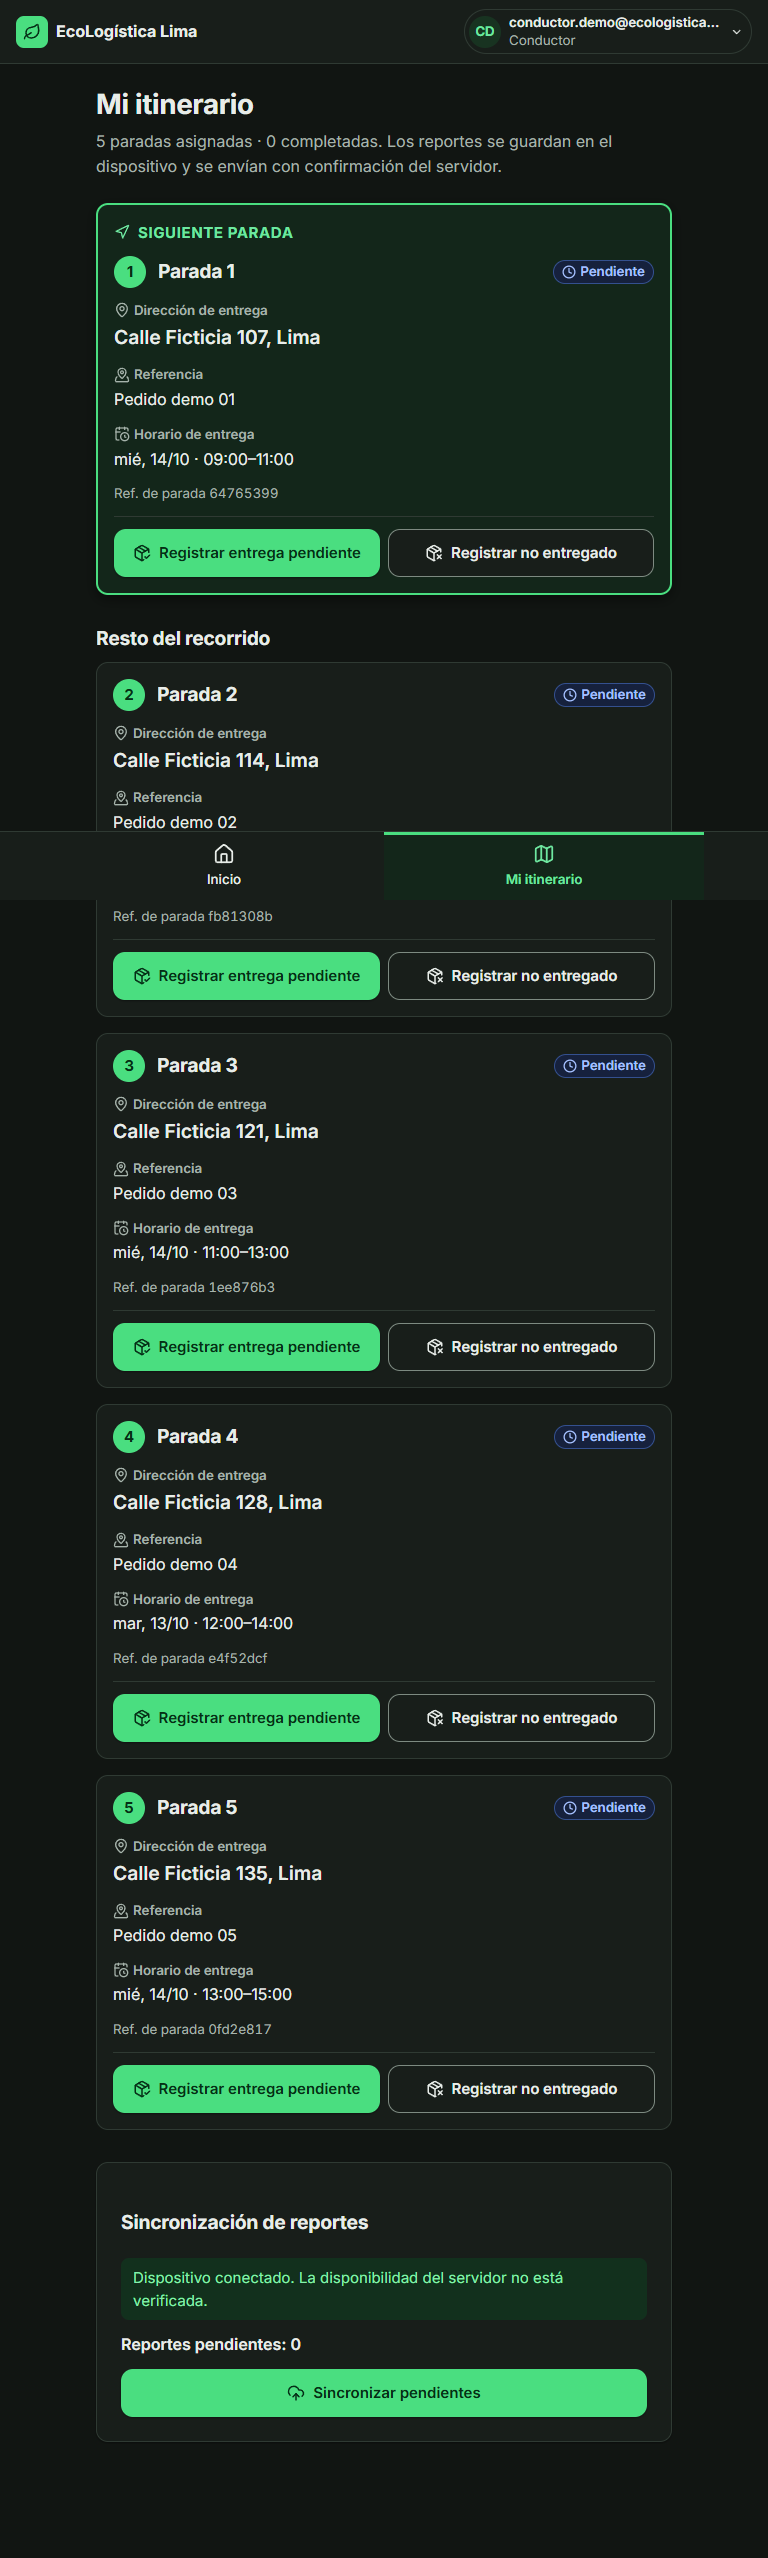
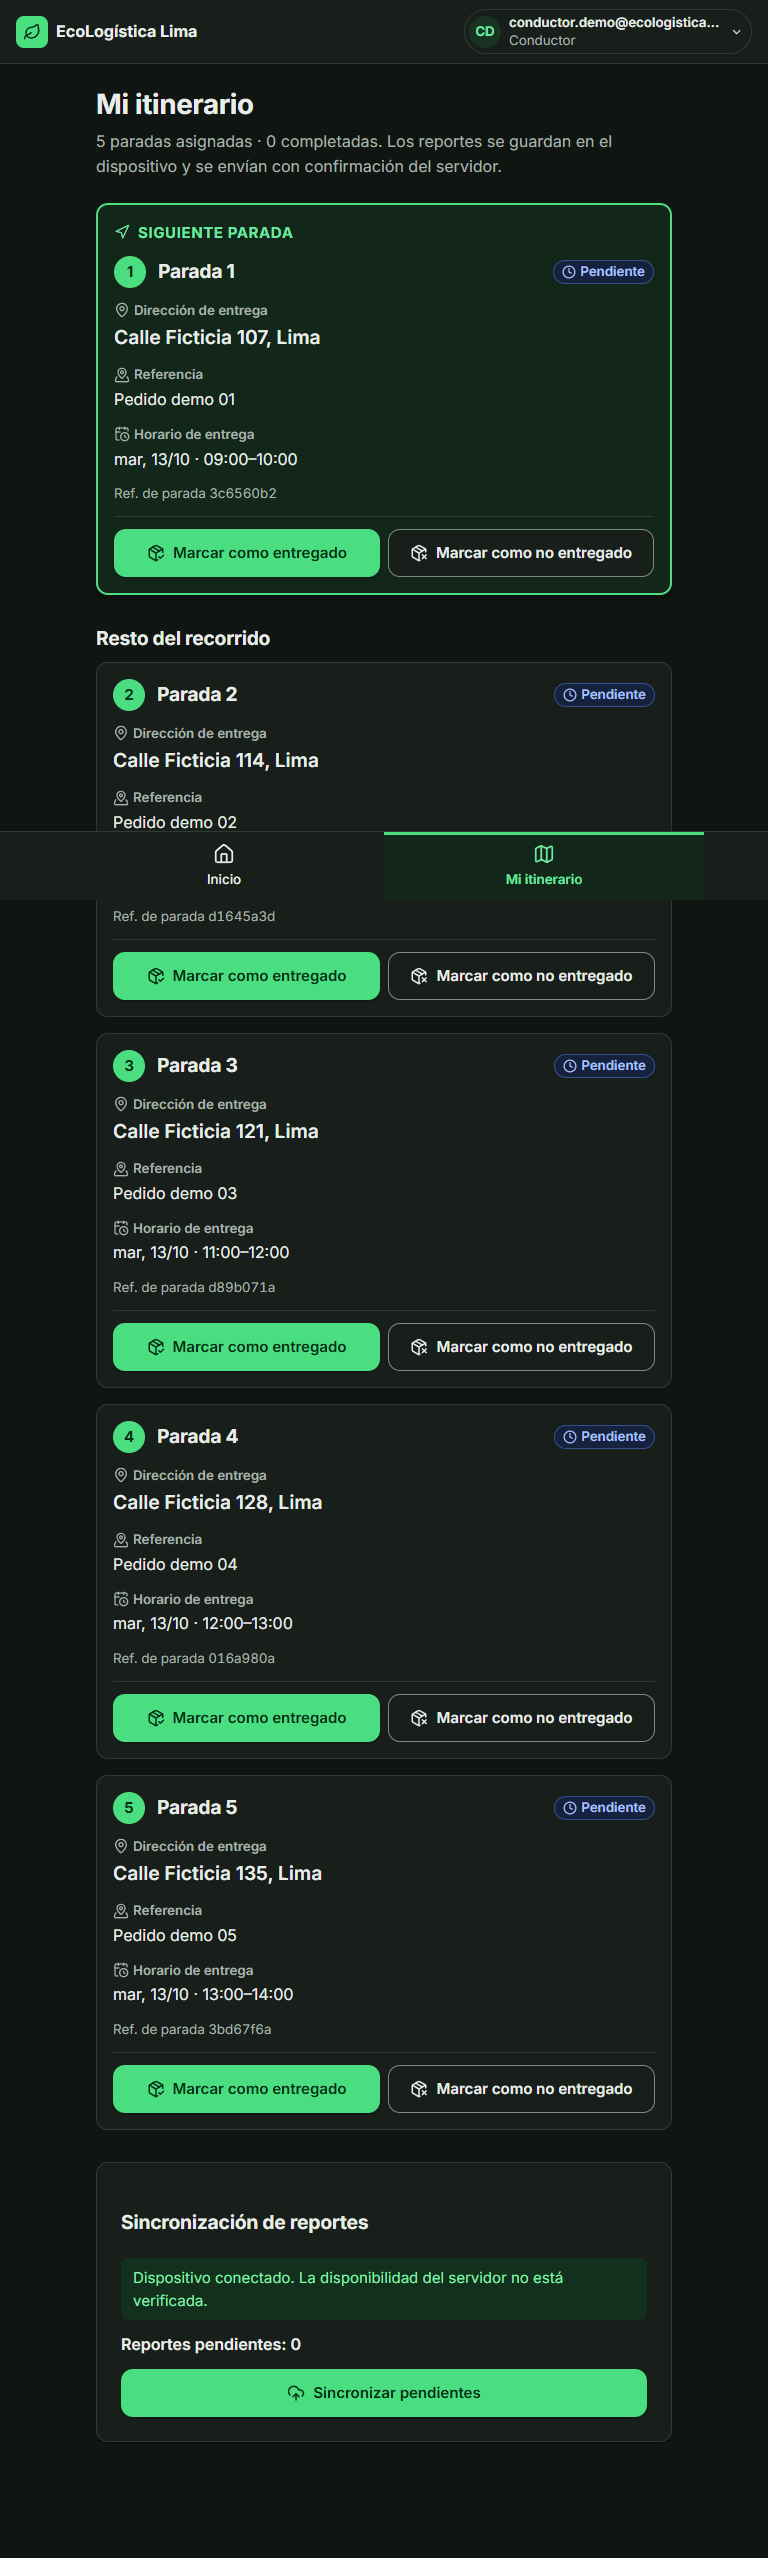
docs(ECL-22): regenerar capturas de inicio e itinerario tras la revisión
Solo despues/02-inicio-* («Próximamente» sin nombres de sprint) y
despues/07-itinerario-* (botones «Marcar como …» y recorrido de la demo
el mismo día, 09:00–14:00), sobre la base _demo resembrada.
capture-redesign.mjs admite una lista de pantallas para regenerar solo
esas. Las capturas «antes» no cambian.

diff --git a/frontend/evidencias/ECL-22-rediseno/README.md b/frontend/evidencias/ECL-22-rediseno/README.md
@@ -11,6 +11,8 @@ API FastAPI y la vista previa del frontend en `127.0.0.1`.
   (Playwright 1.58.2, Chrome 155.0.8059.40, Node 22.18.0). En la fase «después» el
   script falla si alguna pantalla tiene desbordamiento horizontal: no hubo ninguno.
 
+Actualización 13/10/2026: tras la revisión se regeneraron solo `despues/02-inicio-*` (sección «Próximamente» sin nombres de sprint) y `despues/07-itinerario-*` (botones «Marcar como entregado» / «Marcar como no entregado» y paradas de la demo en el mismo día, 09:00–14:00) con `capture-redesign.mjs despues 02-inicio,07-itinerario`.
+
 Notas de lectura:
 
 - La interfaz anterior no tenía modo oscuro: sus capturas «oscuro» se ven igual que
